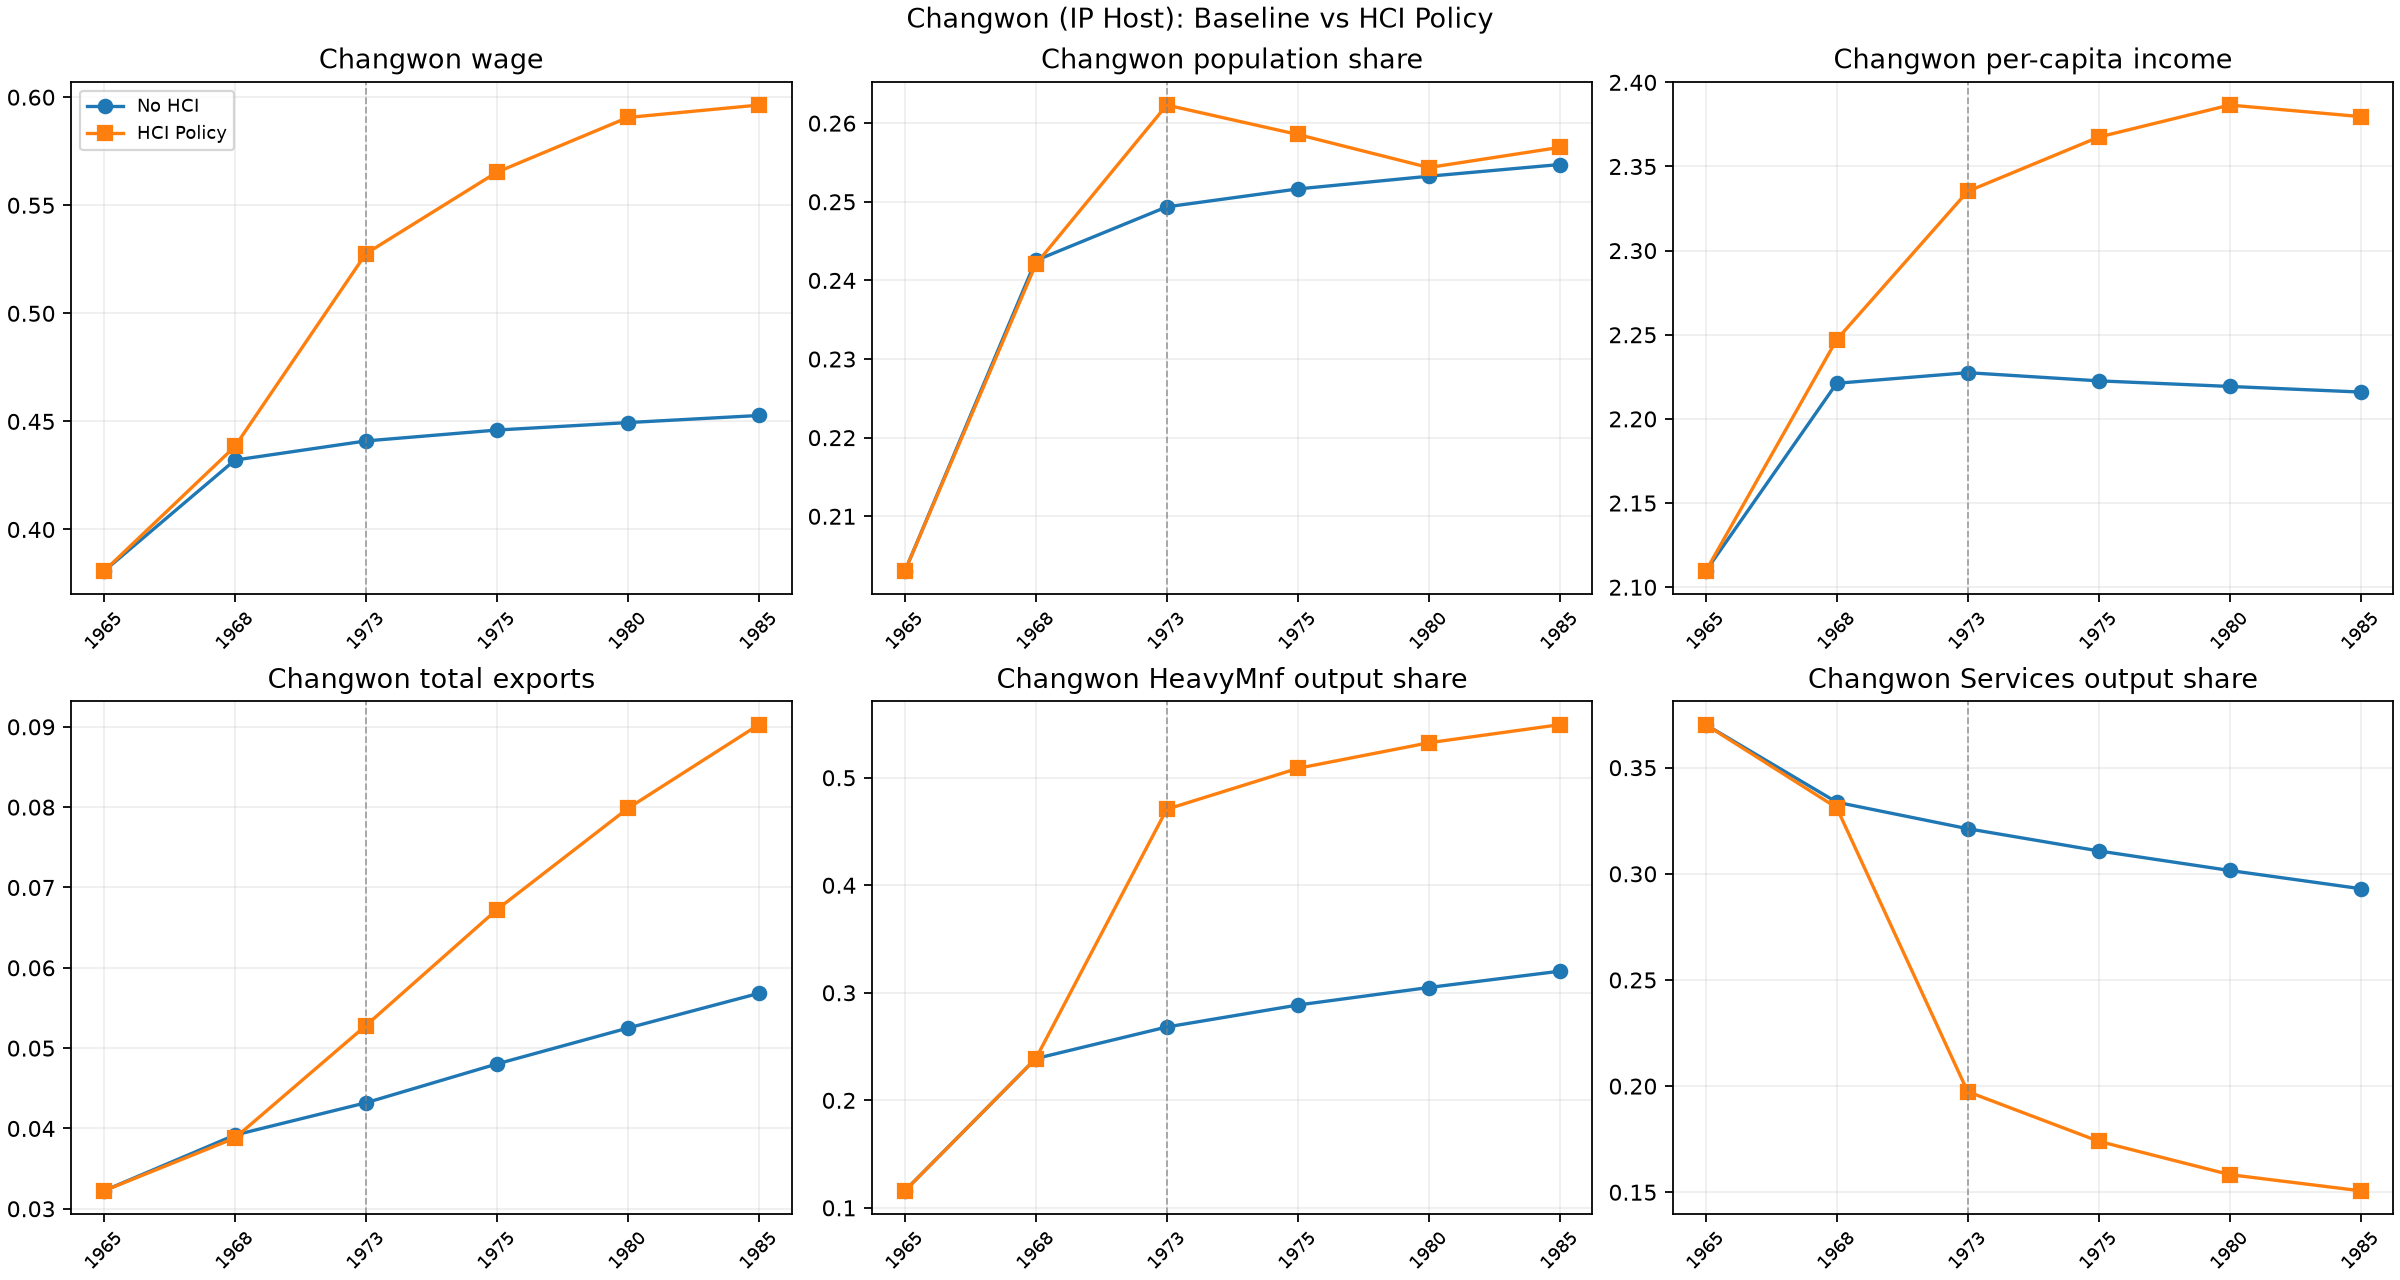
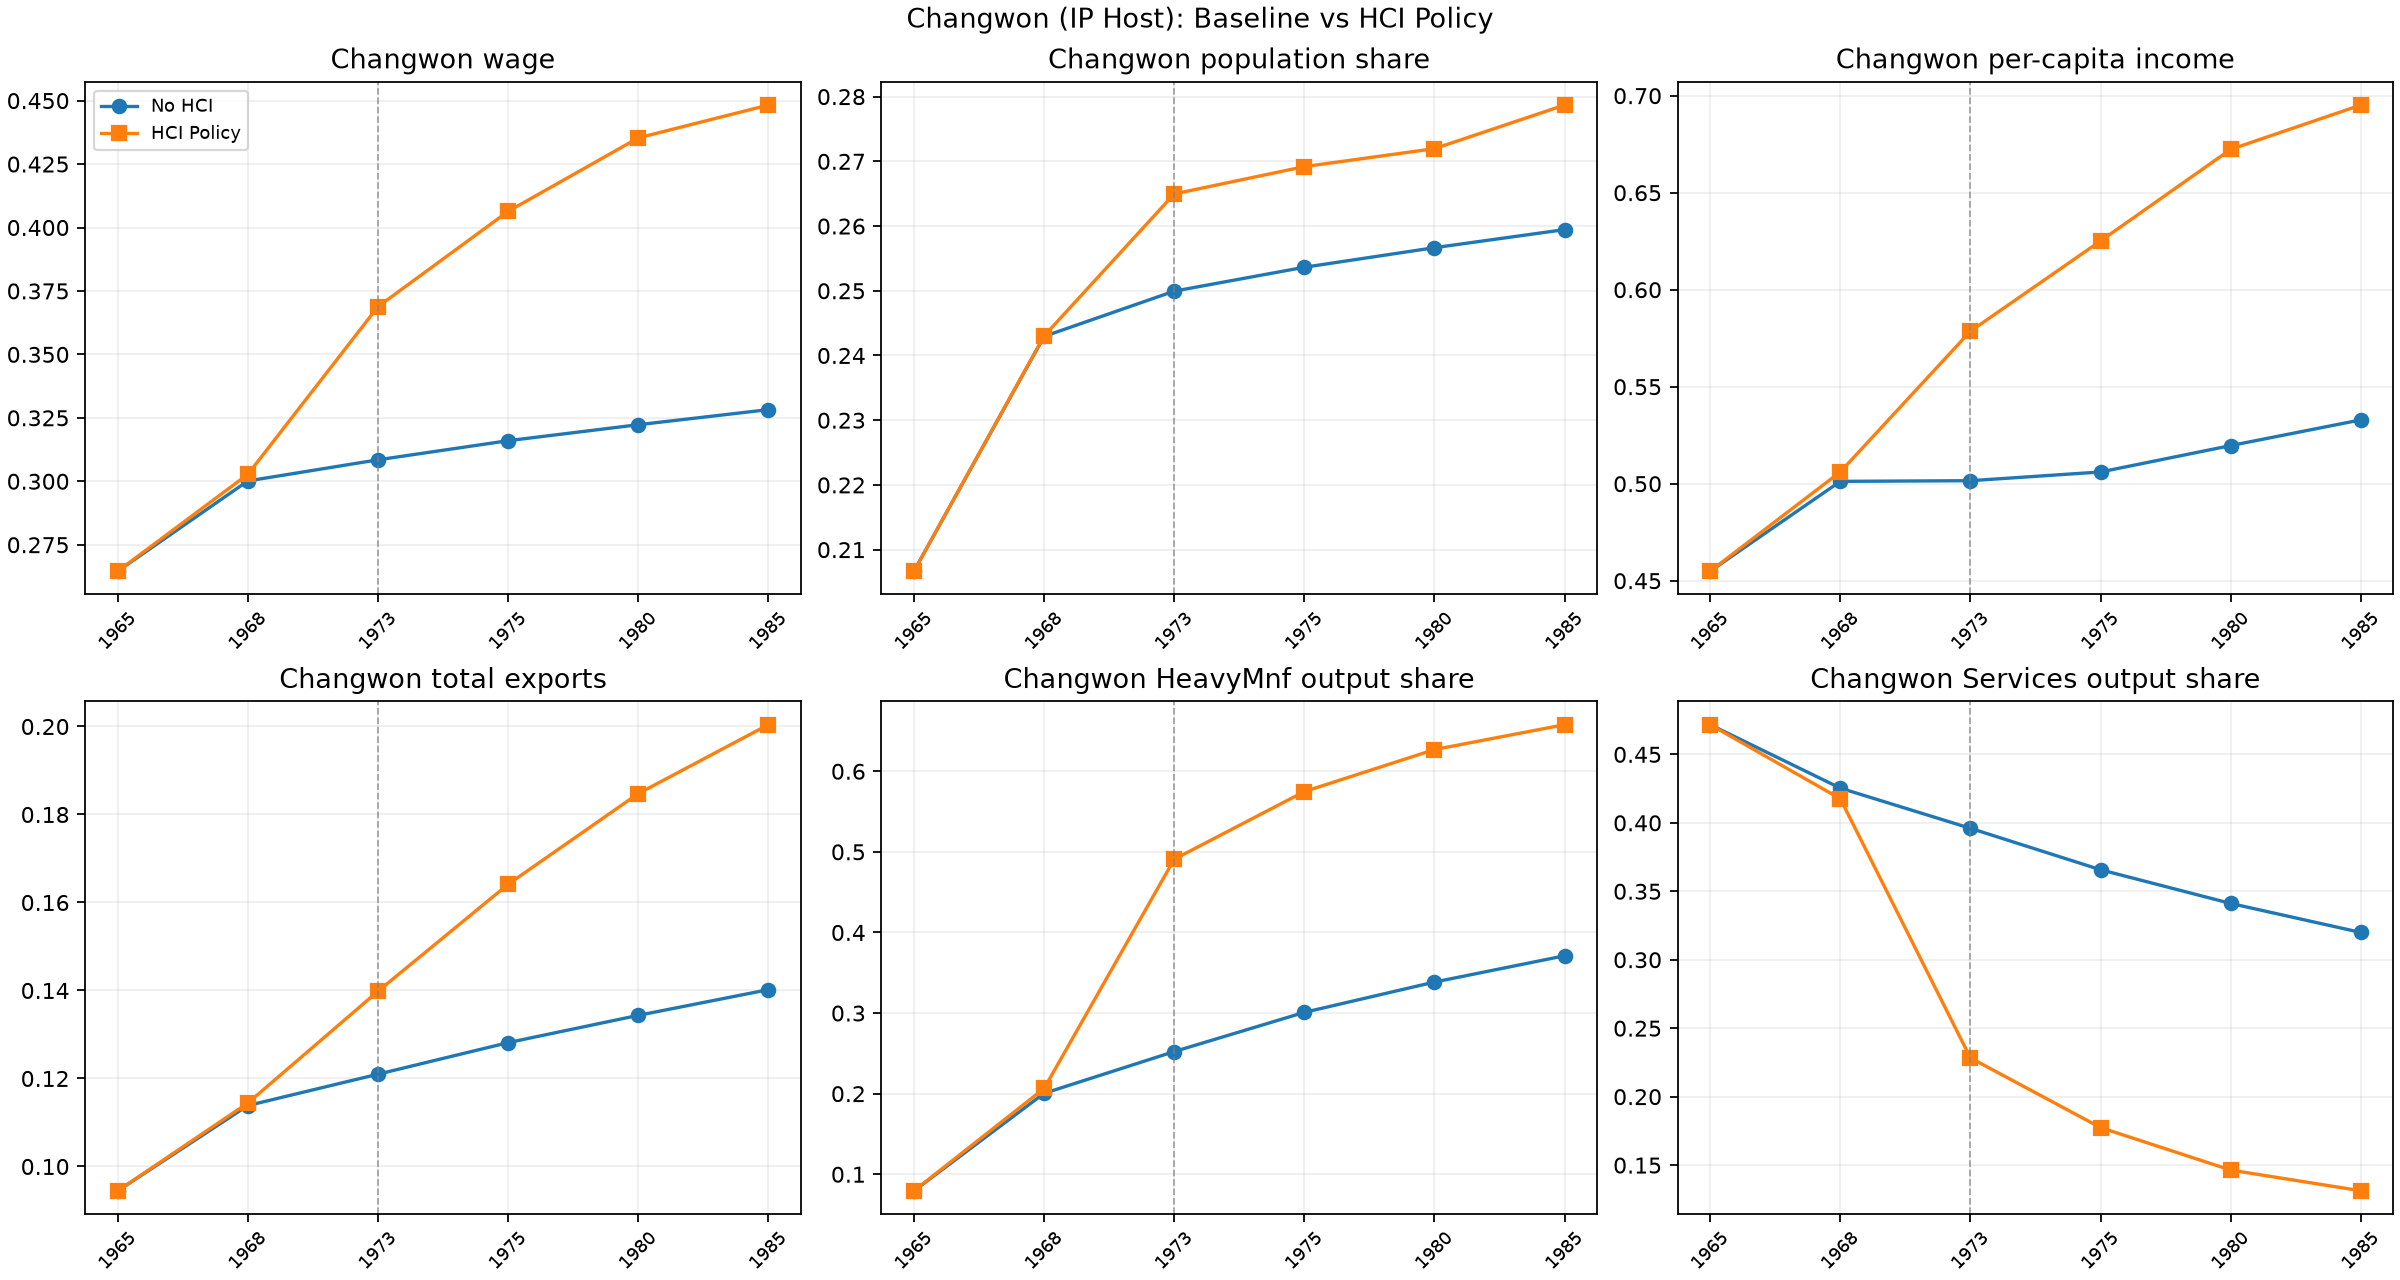
fix(model): pin the trade balance exogenously; old closure was indeterminate
The foreign transfer was set to IM - EX at the current guess. Household
income = expenditure plus goods-market clearing already imply T = IM - EX
at any fixed point, so this replaced the external-balance condition with an
identity and left a one-dimensional continuum of equilibria indexed by the
trade deficit. Scaled initial guesses converged (residual ~1e-12) to wages
differing by 65%, deficits of 37-67% of absorption, and mean real income
differing 3.6x. The Walras/resource/budget tests held along the whole
continuum.

- ModelExogenousPaths.nx_gdp (T,), default None = balanced trade; the
  transfer is T = -NX*, NX* = nx_gdp_t * GDP, and EX - IM = NX* now holds
  at the solution (reported as aggregates["nx_residual"]).
- GDP and NX are added to the aggregate diagnostics; intermediate demand is
  computed before the household block so GDP is available there.
- Tests: equilibrium invariant to the initial guess (fails on the old
  closure), and a non-zero nx_gdp path is matched exactly.
- Regenerated policy-simulation figures. 1985 heavy-mfg share effect is
  now +0.104 (was +0.057 at the solver's arbitrary point).

Claude-Session: https://claude.ai/code/session_016zjqCi3K8e25jXqjrCnufh

diff --git a/src/korea_growth/equilibrium.py b/src/korea_growth/equilibrium.py
@@ -131,25 +131,45 @@ def compute_implied_static(
     tfc_new = tfc_scale * (R_breve + R_tilde)
 
     # ------------------------------------------------------------
-    # 3) Trade aggregates and the net foreign transfer (model_review.md 1.5)
-    #    Exports earn EX from abroad; imports IM leak abroad. Once the other accounting
-    #    leaks are closed, the household budget and the CES resource identity together
-    #    force balanced trade, so the net foreign position must be carried into household
-    #    income as a transfer T = IM - EX (a deficit is financed from abroad, a surplus is
-    #    lent abroad). We distribute T proportional to pre-transfer income, i.e. as a
-    #    uniform income scale factor. This is robustly positive (it stays feasible as long
-    #    as net exports are smaller than income) and closes income = expenditure exactly.
+    # 3) Intermediate demand (depends only on TFC; needed here for GDP)
     # ------------------------------------------------------------
+    gamma_io_t = exog.gamma_io[t, :, :, :]  # (N,J,J)
+    intermediate = np.einsum("ok,okj->oj", tfc_total, gamma_io_t)
+
+    if agri_idx is not None:
+        gammabreve_io_t = exog.gammabreve_io[t, :, :, :]
+        # Replace the agriculture-output-sector contribution (trad vs new tech shares)
+        old_contrib = tfc_total[:, agri_idx][:, None] * gamma_io_t[:, agri_idx, :]
+        new_contrib = (
+            tfc_trad[:, agri_idx][:, None] * gamma_io_t[:, agri_idx, :]
+            + tfc_new[:, agri_idx][:, None] * gammabreve_io_t[:, agri_idx, :]
+        )
+        intermediate = intermediate - old_contrib + new_contrib
+
+    # ------------------------------------------------------------
+    # 4) Trade closure (model_review.md 1.5; docs/fresh_look.md section 2.1)
+    #    Households receive a net foreign transfer T that finances the trade deficit. T must
+    #    be pinned exogenously. Income = expenditure and goods-market clearing already imply
+    #    T = IM - EX at any fixed point, so the previous closure (T = IM - EX evaluated at the
+    #    current guess) dropped the one condition tying domestic prices to the foreign
+    #    numeraire and admitted a continuum of equilibria indexed by the trade deficit. We set
+    #    T = -NX*, with NX* = nx_gdp_t * GDP (default: balanced trade), so EX - IM = NX* holds
+    #    at the solution. T is distributed proportional to pre-transfer income (a uniform
+    #    scale factor that keeps per-capita income positive).
+    # ------------------------------------------------------------
+    gdp = float(np.sum(gross_output) - np.sum(intermediate))
+    nx_target = (0.0 if exog.nx_gdp is None else float(exog.nx_gdp[t])) * gdp
+
     EX = float(np.sum(R_tilde))
     import_term = np.empty((N, J), dtype=float)
     for j in range(J):
         import_term[:, j] = np.power(exog.tautilde[t, j, :] * exog.ptilde[t, j], 1.0 - sigma)
     import_share = import_term / np.maximum(np.power(P, 1.0 - sigma), eps)  # (N,J)
     IM = float(np.sum(import_share * E))
-    transfer = IM - EX
+    transfer = -nx_target
 
     # ------------------------------------------------------------
-    # 4) Household income and population (inner fixed point for land rents per capita)
+    # 5) Household income and population (inner fixed point for land rents per capita)
     #    Disposable income now includes local land rents r_o H_o / L_o (model_review.md 1.1)
     #    and the net foreign transfer. Per-capita land rent and the income-proportional
     #    transfer both depend on the migration-implied L, which depends on income, so a
@@ -185,21 +205,8 @@ def compute_implied_static(
     y_pc = base_pc * transfer_scale
 
     # ------------------------------------------------------------
-    # 5) Intermediate + final + government demand => implied expenditures E
+    # 6) Intermediate + final + government demand => implied expenditures E
     # ------------------------------------------------------------
-    gamma_io_t = exog.gamma_io[t, :, :, :]  # (N,J,J)
-    intermediate = np.einsum("ok,okj->oj", tfc_total, gamma_io_t)
-
-    if agri_idx is not None:
-        gammabreve_io_t = exog.gammabreve_io[t, :, :, :]
-        # Replace the agriculture-output-sector contribution (trad vs new tech shares)
-        old_contrib = tfc_total[:, agri_idx][:, None] * gamma_io_t[:, agri_idx, :]
-        new_contrib = (
-            tfc_trad[:, agri_idx][:, None] * gamma_io_t[:, agri_idx, :]
-            + tfc_new[:, agri_idx][:, None] * gammabreve_io_t[:, agri_idx, :]
-        )
-        intermediate = intermediate - old_contrib + new_contrib
-
     # Final consumption demand
     final_cons = np.empty((N, J), dtype=float)
     for o in range(N):
@@ -223,7 +230,7 @@ def compute_implied_static(
     E_implied = intermediate + final_cons + E_gov
 
     # ------------------------------------------------------------
-    # 6) Factor markets => implied (w, r)
+    # 7) Factor markets => implied (w, r)
     #    Factor income = labor/land share of true factor cost TFC; labor additionally
     #    receives the fixed-cost bill Phi^F (fixed costs are paid in local labor, not
     #    destroyed; model_review.md 1.2).
@@ -267,7 +274,7 @@ def compute_implied_static(
     r_implied = land_payment / H_safe
 
     # ------------------------------------------------------------
-    # 7) Profits, pibar and government budget
+    # 8) Profits, pibar and government budget
     # ------------------------------------------------------------
     wage_bill = float(np.sum(w * L))
     wage_bill = max(wage_bill, eps)
@@ -330,7 +337,11 @@ def compute_implied_static(
         "absorption": float(np.sum(E_implied)),
         "EX": EX,
         "IM": IM,
+        "GDP": gdp,
+        "NX": EX - IM,
         "transfer": transfer,
+        # Trade closure: EX - IM == NX* (an equilibrium condition, not an identity).
+        "nx_residual": (EX - IM) - nx_target,
         # Resource constraint: sum(Y) == sum(E) + EX - IM (CES bookkeeping).
         "resource_residual": float(np.sum(gross_output)) - (float(np.sum(E_implied)) + EX - IM),
         # Income == final expenditure (guards land-rent / transfer inclusion).

diff --git a/tests/test_accounting.py b/tests/test_accounting.py
@@ -23,7 +23,7 @@ from korea_growth.checks import (
 )
 from korea_growth.distributions import integral_phi_sigma_minus_1
 from korea_growth.preferences import indirect_utility, real_income_index
-from korea_growth.solver import solve_dynamic_equilibrium
+from korea_growth.solver import initial_guess, solve_dynamic_equilibrium, solve_static_equilibrium
 from korea_growth.trade import compute_sector_state
 from korea_growth.types import SolverOptions
 from dataclasses import replace
@@ -67,6 +67,45 @@ def test_walras_and_resource_constraint_hold(toy_solution):
 
         # Government budget balances: tau * W == subsidies + infrastructure (1.3, 1.4).
         assert abs(agg["gov_budget_residual"]) < 1e-8
+
+
+def test_equilibrium_is_invariant_to_initial_guess():
+    # The trade closure must pin domestic prices relative to the foreign numeraire. Under the
+    # former closure (transfer = IM - EX at the current guess) scaled guesses converged to
+    # different wage levels and trade deficits (docs/fresh_look.md, section 2.1).
+    inputs = build_toy_inputs()
+    L0 = inputs.exog.L0
+    opts = SolverOptions(max_iter=20000, tol=1e-11, verbose=False)
+    g0 = initial_guess(inputs=inputs, t=0, L_prev=L0)
+
+    sols = []
+    for scale in (0.5, 1.0, 2.0):
+        guess = dict(g0, w=g0["w"] * scale, r=g0["r"] * scale, E=g0["E"] * scale)
+        sols.append(
+            solve_static_equilibrium(inputs=inputs, t=0, L_prev=L0, guess=guess, options=opts)
+        )
+
+    for eq in sols[1:]:
+        np.testing.assert_allclose(eq.w, sols[0].w, rtol=1e-7)
+        np.testing.assert_allclose(eq.P, sols[0].P, rtol=1e-7)
+        np.testing.assert_allclose(eq.L, sols[0].L, rtol=1e-7)
+
+
+def test_net_exports_are_pinned_by_nx_gdp():
+    inputs = build_toy_inputs()
+    nx = np.full(inputs.dims.T, -0.05)
+    inputs = replace(inputs, exog=replace(inputs.exog, nx_gdp=nx))
+    path = solve_dynamic_equilibrium(
+        inputs=inputs, options=SolverOptions(max_iter=20000, tol=1e-11, verbose=False)
+    )
+    for t in range(inputs.dims.T):
+        L_prev = inputs.exog.L0 if t == 0 else path.L[t - 1]
+        agg = aggregate_accounting(inputs, t, L_prev, _Eq(path, t))
+
+        assert agg["NX"] / agg["GDP"] == pytest.approx(-0.05, abs=1e-8)
+        assert abs(agg["nx_residual"]) < 1e-8
+        assert abs(agg["income_minus_expenditure"]) < 1e-8
+        assert abs(agg["resource_residual"]) < 1e-8
 
 
 def test_population_is_conserved(toy_solution):

diff --git a/src/korea_growth/checks.py b/src/korea_growth/checks.py
@@ -54,6 +54,8 @@ def validate_shapes(inputs: ModelInputs) -> None:
     assert_shape("delta", ex.delta, (T, N, N))
     assert_shape("H", ex.H, (T, N))
     assert_shape("tax_spending_on_building_H_and_roads", ex.tax_spending_on_building_H_and_roads, (T,))
+    if ex.nx_gdp is not None:
+        assert_shape("nx_gdp", ex.nx_gdp, (T,))
 
 
 def validate_param_restrictions(inputs: ModelInputs, tol: float = 1e-10) -> None:
@@ -139,6 +141,9 @@ def validate_param_restrictions(inputs: ModelInputs, tol: float = 1e-10) -> None
 
     if not (np.min(ex.s) >= 0 and np.max(ex.s) < 1):
         errors.append("s must be in [0,1)")
+
+    if ex.nx_gdp is not None and not np.all(np.abs(ex.nx_gdp) < 1):
+        errors.append("nx_gdp must lie in (-1,1)")
 
     if errors:
         raise ModelInputError("; ".join(errors))

diff --git a/src/korea_growth/types.py b/src/korea_growth/types.py
@@ -133,6 +133,10 @@ class ModelExogenousPaths:
     # Exogenous government spending (in wage units / numeraire)
     tax_spending_on_building_H_and_roads: Array  # (T,)
 
+    # Exogenous net exports (EX - IM) as a share of GDP. This pins the trade balance, and with
+    # it the level of domestic prices relative to the foreign numeraire. None = balanced trade.
+    nx_gdp: Optional[Array] = None  # (T,)
+
 
 @dataclass(frozen=True)
 class ModelInputs:
